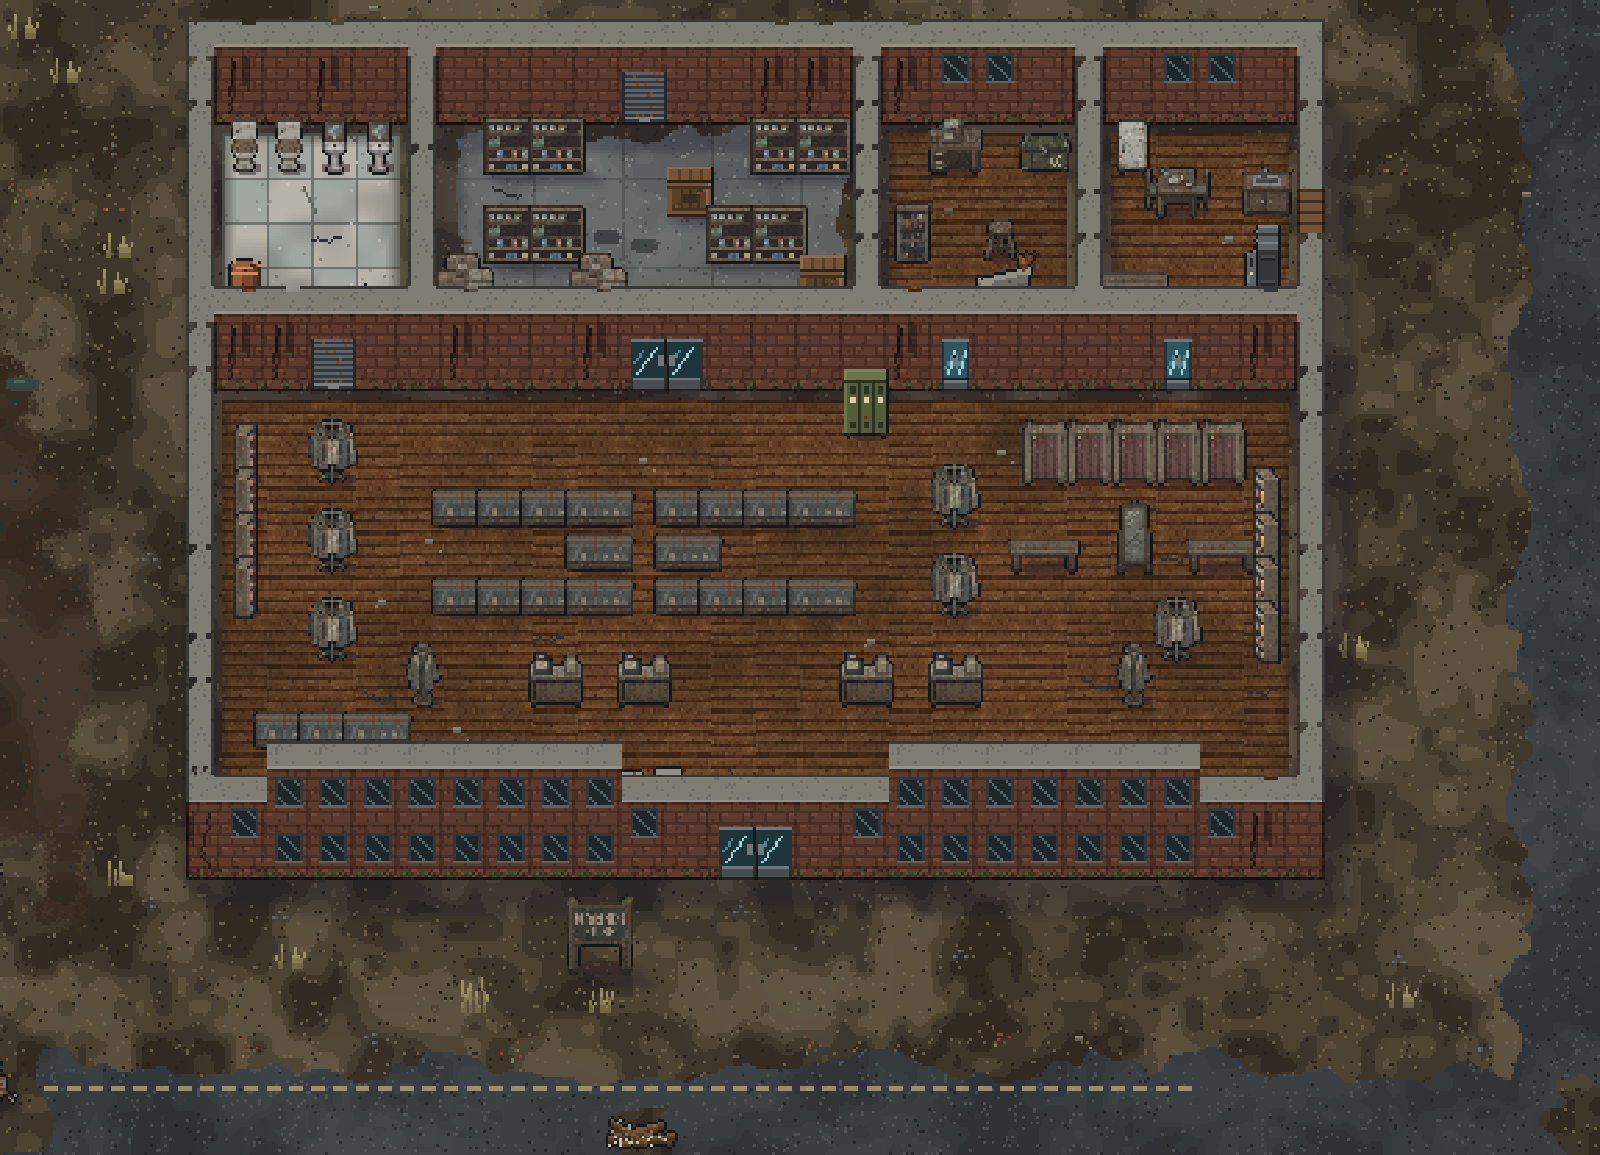
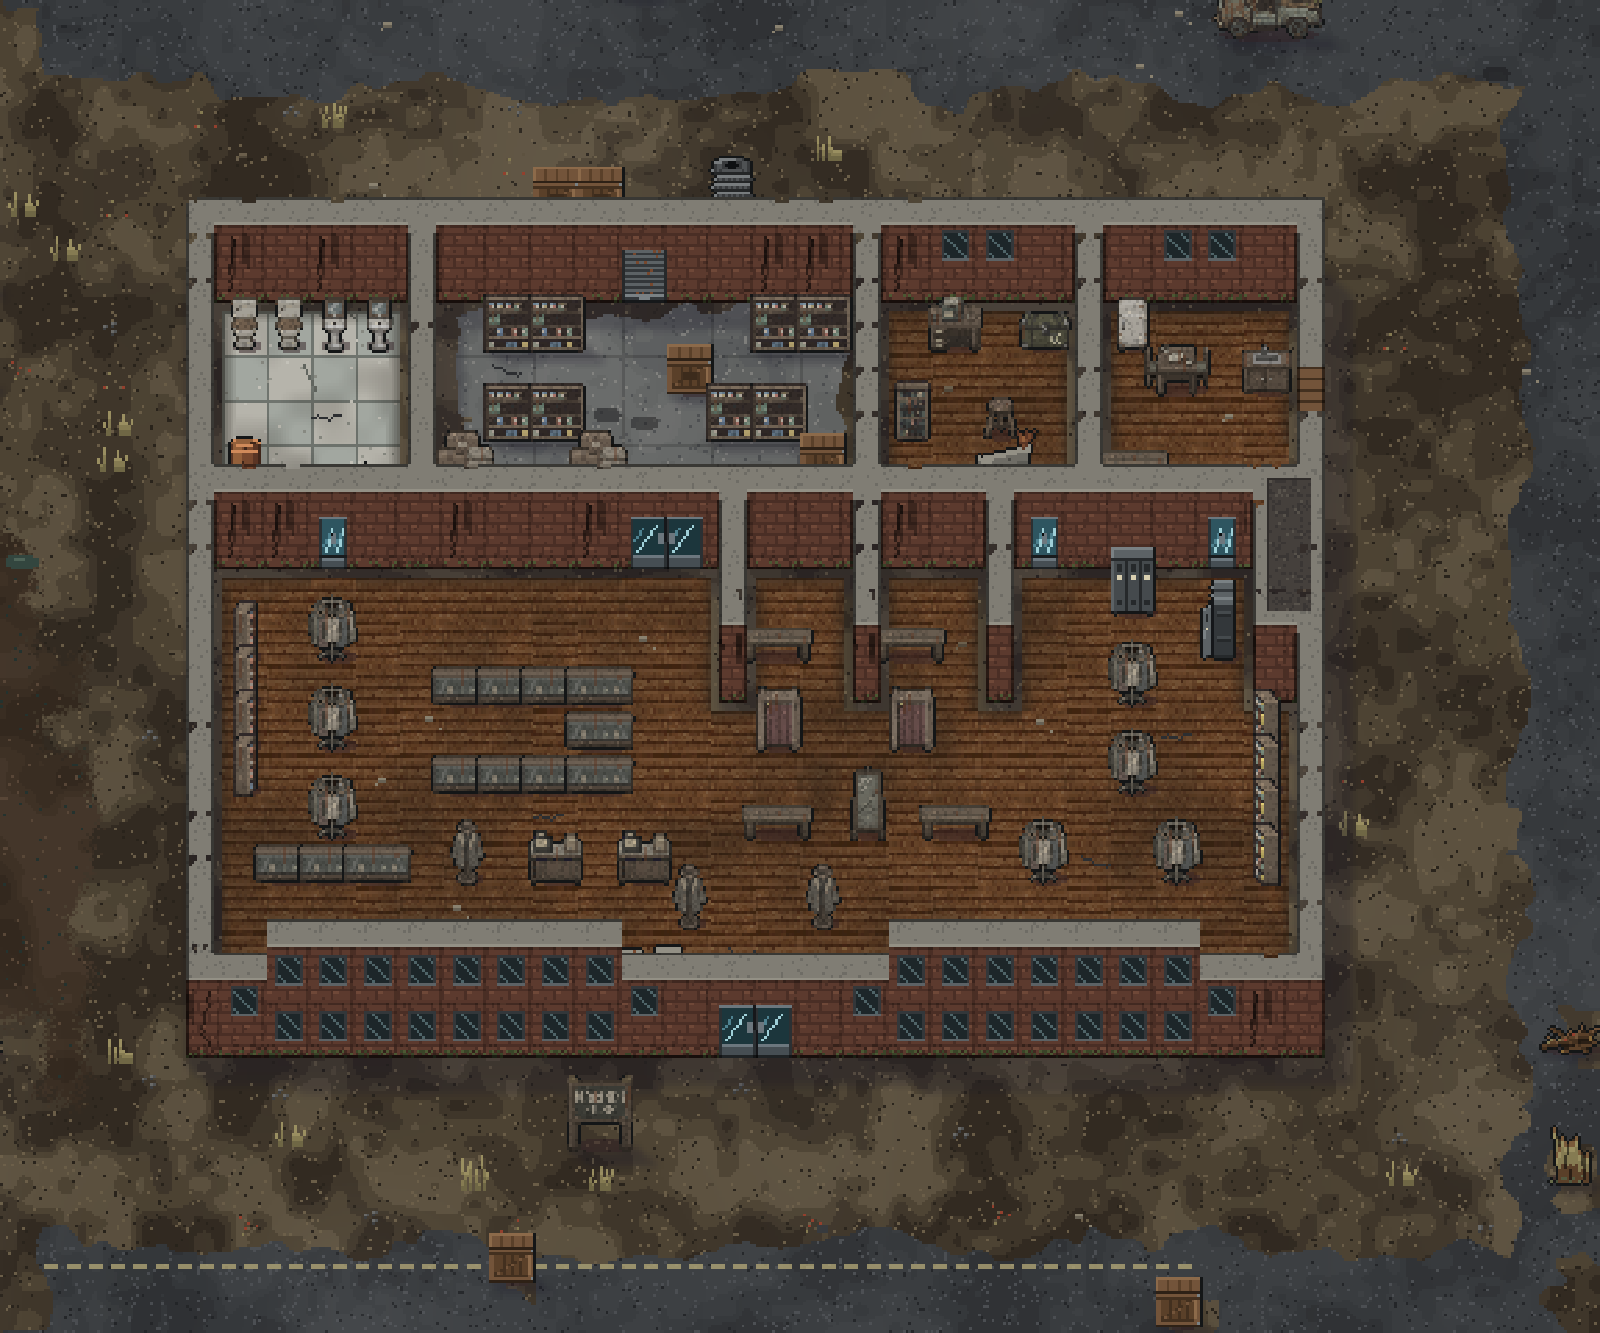
Department store: walk-in fitting cubicles, dock door explicit, desk and doors fixed
Claude-Session: https://claude.ai/code/session_01Jpd5tdDJTR7BVueAYV1KDM

diff --git a/Assets/Scripts/GameCore/InteriorPlans.Generated.cs b/Assets/Scripts/GameCore/InteriorPlans.Generated.cs
@@ -10,15 +10,15 @@ namespace GameCore
             "#....#.gg...gg.#l.S.#....#",
             "#r..*#X..X....c#..x.#B.hhD",
             "#....#.........#....#....#",
-            "###D######DD#####D####D###",
-            "#........................#",
-            "#5.Ö...............ÅÅÅÅÅ.#",
-            "#5....§§§§.§§§§..Ö......6#",
-            "n5.Ö.....§.§.......B.Ä.B6n",
-            "n5....§§§§.§§§§..Ö......6n",
-            "#..Ö..................Ö.6#",
-            "#....ß..Þ.Þ....Þ.Þ...ß...#",
-            "#.§§§....................#",
+            "###D######DD#######D###D##",
+            "#...........#..#..#.....##",
+            "#5.Ö........#B.#B.#.....##",
+            "#5....§§§§..#..#..#..Ö..##",
+            "n5.Ö.....§...Å..Å.......6n",
+            "n5....§§§§...........Ö..6n",
+            "#..Ö.........B.Ä.B......6#",
+            "#.§§§.ß.Þ.Þ........Ö..Ö.6#",
+            "#..........ß..ß..........#",
             "#.........x..........x...#",
             "#........................#",
             "#nnnnnnnnnn#DD#nnnnnnnnn##",
@@ -31,9 +31,9 @@ namespace GameCore
             ".kkkk.ccccccccc.wwww.wwww.",
             ".kkkk.ccccccccc.wwww.wwww.",
             "..........................",
-            ".wwwwwwwwwwwwwwwwwwwwwwww.",
-            ".wwwwwwwwwwwwwwwwwwwwwwww.",
-            ".wwwwwwwwwwwwwwwwwwwwwwww.",
+            ".wwwwwwwwwww.ww.ww.wwwww..",
+            ".wwwwwwwwwww.ww.ww.wwwww..",
+            ".wwwwwwwwwww.ww.ww.wwwww..",
             ".wwwwwwwwwwwwwwwwwwwwwwww.",
             ".wwwwwwwwwwwwwwwwwwwwwwww.",
             ".wwwwwwwwwwwwwwwwwwwwwwww.",

diff --git a/Assets/Scripts/GameCore/TierMaps.cs b/Assets/Scripts/GameCore/TierMaps.cs
@@ -1485,7 +1485,7 @@ namespace GameCore
             // the big buildings round the plaza
             c.Clear(62, 118, 34, 26, null); Interiors.Stamp(c, 66, 122, Interiors.DepartmentStore, Interiors.DepartmentStoreFloor, "brick", "shop");   // the department store ground floor (Gemini layout)
             c.Landmark("Department Store", 79, 131);
-            c.Landmark("Loading Dock", 77, 119); c.Put(75, 141, HardCover, "storepost");   // the store sign out front; the dock door (nearest landmark) gets a roller look, the inner doors the store's glass
+            c.Put(76, 122, Door, "dx_roller"); c.Put(74, 120, ScatterCover, "crate").Put(75, 120, ScatterCover, "crate").Put(78, 120, ScatterCover, "tires"); c.Put(75, 141, HardCover, "storepost");   // dock door = roller (explicit look), pallets outside;
             c.Block(64, 150, 20, 14, "wall", 2);
             c.Landmark("Police Station", 74, 166);
             c.Block(92, 160, 22, 16, "concrete", 2);

diff --git a/ArtSource/WORK_LOG.md b/ArtSource/WORK_LOG.md
@@ -7488,3 +7488,6 @@ Searched fitting-room layouts (row of curtained single cubicles, mirror outside,
 
 ## Batch 9gk (2026-11-28) - Department store: full rework after review
 Door styles: Department Store landmark moved to the building's centre so inner doors are glass and only the dock door is a roller. Sales floor: parquet, display-case islands, clothes racks (new prop), checkouts and mannequins pulled off the window wall, no rubble lumps. Stray scatter (brush/bushes) no longer lands inside stamped interiors (TerrainCanvas.Scatter respects Keep, same random stream). Richer restroom, stock room, office, staff room; free-standing store sign (new prop) out front. Harness passed; nothing run in Unity.
+
+## Batch 9gl (2026-11-28) - Department store: walk-in fitting cubicles, dock door explicit, desk and doors fixed
+Fitting rooms are now two walk-in cubicles (partition walls, a bench inside, the curtain drawn to the side of each opening) against the middle wall, so the curtains lead somewhere; office and staff doors moved so none opens into a cubicle. Loading dock: explicit roller door look and pallets outside (no landmark trick, so the restroom door is glass). Customer desk moved out of the hidden row, mannequins flank the entrance, racks moved east. Harness passed; nothing run in Unity.
